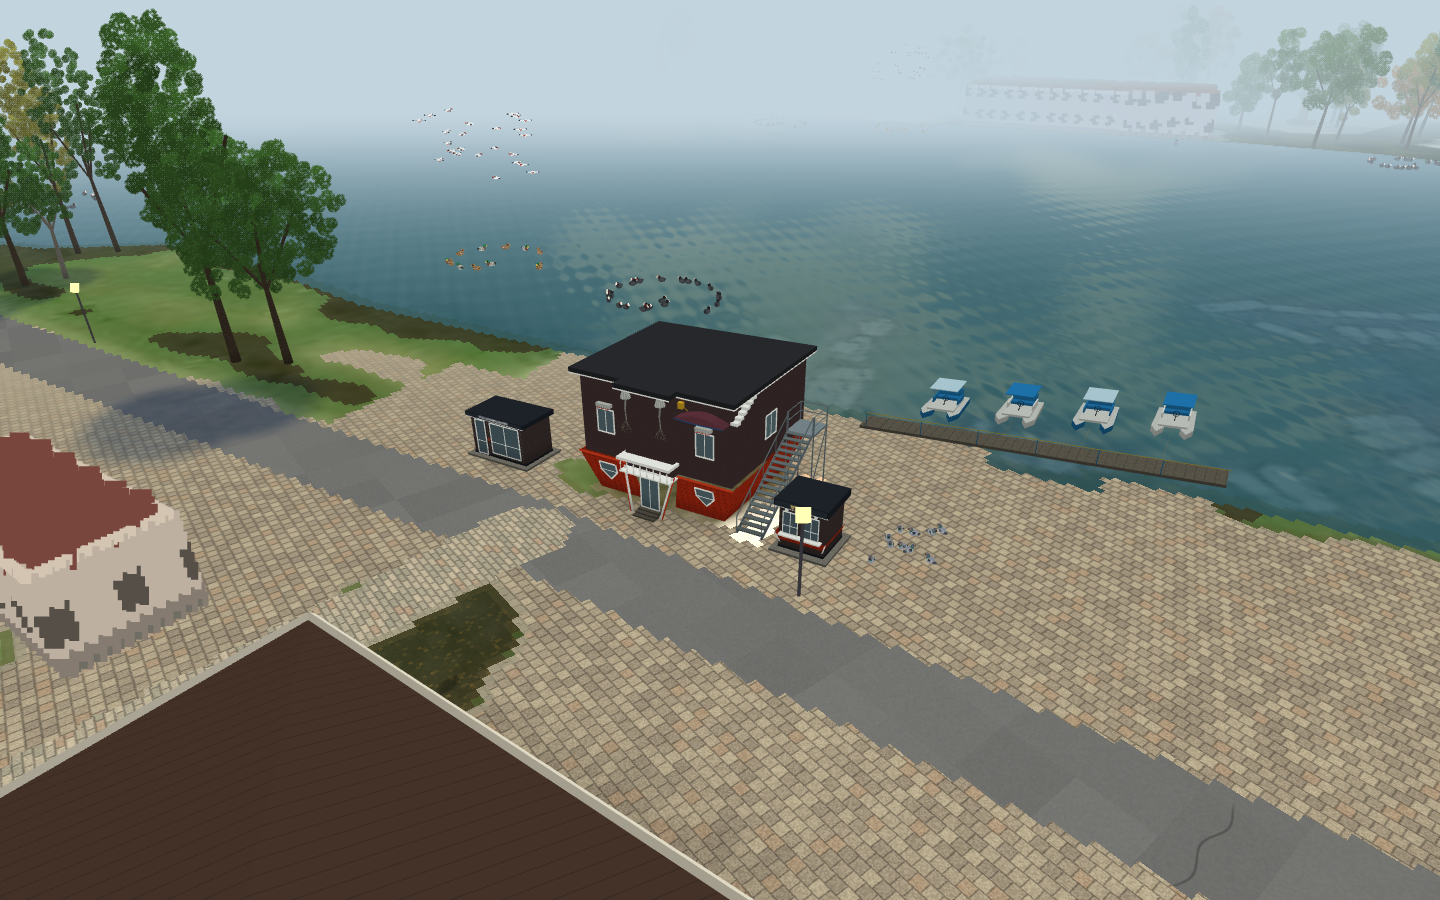
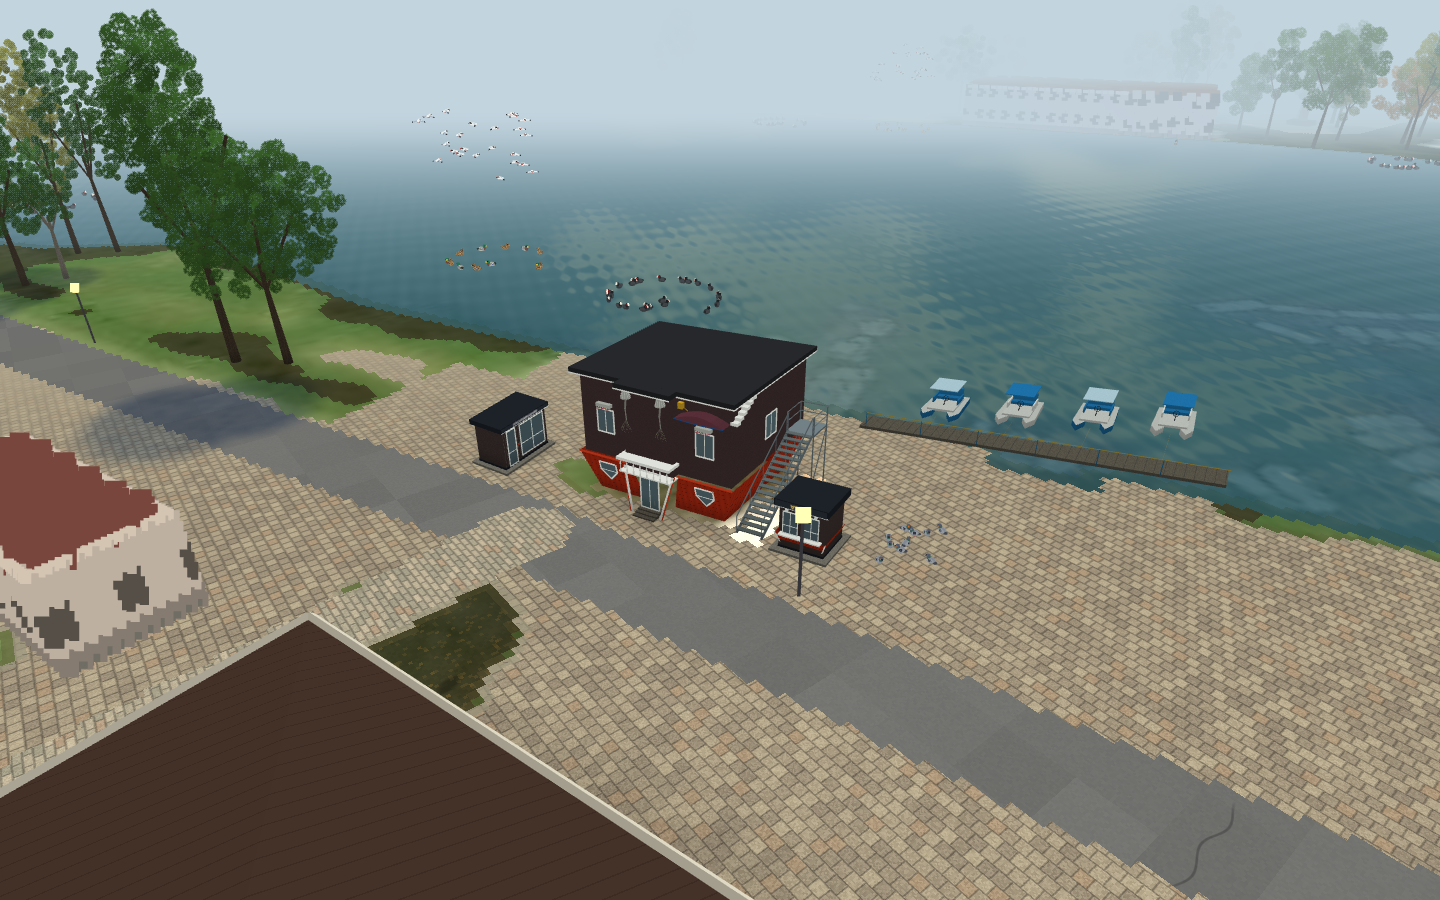
Rotate police post toward upside-down house

diff --git a/park-house-surroundings.js b/park-house-surroundings.js
@@ -6,7 +6,11 @@ const C={wood:[.28,.23,.22],dark:[.12,.14,.17],white:[.89,.91,.88],glass:[.17,.2
 const sites={policePost:{x:-10,d:-1.2,w:3.5,depth:2.25,h:2.65},shoreTicket:{x:7.8,d:-.65,w:2.2,depth:1.85,h:2.75}};
 const boats=[{x:8.5,d:-16.2},{x:12.6,d:-16.8},{x:16.7,d:-17.4},{x:20.8,d:-18}];
 function rect(f,x,d,w,depth){return [[x-w/2,d-depth/2],[x+w/2,d-depth/2],[x+w/2,d+depth/2],[x-w/2,d+depth/2]].map(p=>{const q=f.at(p[0],0,p[1]);return [q[0],q[2]];});}
-function footprint(e){const s=sites[e.kind];return rect(House.frame(e.house),s.x,s.d,s.w,s.depth);}
+function orientCabin(e,p){
+ // Quarter-turn toward the house, around the police cabin's existing centre.
+ return e.kind==='policePost'?[e.cx+p[2]-e.cz,p[1],e.cz-p[0]+e.cx]:p;
+}
+function footprint(e){const s=sites[e.kind];return rect(House.frame(e.house),s.x,s.d,s.w,s.depth).map(([x,z])=>{const p=orientCabin(e,[x,0,z]);return [p[0],p[2]];});}
 function layout(house,kind){const s=sites[kind],p=House.frame(house).at(s.x,0,s.d);return {cx:p[0],cz:p[2],house};}
 function tools(g,house){
  const at=House.frame(house).at;
@@ -33,7 +37,7 @@ function tools(g,house){
  return {at,quad,beam,box,window,sign};
 }
 function cabin(g,e){
- const s=sites[e.kind],{box,quad,beam,window,sign}=tools(g,e.house),x=s.x,d=s.d,front=d+s.depth/2,police=e.kind==='policePost';
+ const start=g.data.length,s=sites[e.kind],{box,quad,beam,window,sign}=tools(g,e.house),x=s.x,d=s.d,front=d+s.depth/2,police=e.kind==='policePost';
  box(x,.015,d,s.w+.6,.12,s.depth+.7,C.concrete,1);
  box(x,.15,d,s.w,2.23,s.depth,C.wood,police?1:12);
  box(x,.13,d,s.w+.04,.12,s.depth+.04,C.dark,2);
@@ -56,6 +60,10 @@ function cabin(g,e){
   quad([x-s.w/2-.14,.98,front+.14],[x+s.w/2+.14,.98,front+.14],[x+s.w/2-.16,.15,front-.12],[x-s.w/2+.16,.15,front-.12],C.red,11);
   for(const side of [-1,1])beam([x+side*(s.w/2+.14),.98,front+.16],[x+side*(s.w/2-.16),.15,front-.10],.034,C.white,7);
   for(const u of [-.7,.7])box(x+u,2.22,front+.10,.12,.12,.12,C.white);
+ }
+ if(police)for(let i=start;i<g.data.length;i+=10){
+  const p=orientCabin(e,g.data.slice(i,i+3)),nx=g.data[i+3],nz=g.data[i+5];
+  g.data[i]=p[0];g.data[i+2]=p[2];g.data[i+3]=nz;g.data[i+5]=-nx;
  }
 }
 function stairs(g,e){

diff --git a/tests/house-surroundings.test.js b/tests/house-surroundings.test.js
@@ -42,3 +42,18 @@ test('the actual delivered mesh has a full steel flight and elevated landing on 
  for(let i=0;i<g.data.length;i+=10){const x=g.data[i],y=g.data[i+1],z=g.data[i+2],dx=x-f.center[0],dz=z-f.center[1];if(dx*f.right[0]+dz*f.right[1]>4.45&&y<4.5)stairs.push(y);}
  assert(stairs.length>400);assert(Math.min(...stairs)<.16&&Math.max(...stairs)>4.3);
 });
+
+test('the police facade and collision footprint turn exactly 90 degrees toward the house',()=>{
+ const e=all.find(e=>e.kind==='policePost'),s=Shore.sites.policePost,p=Shore.footprint(e);
+ const original=[[-s.w/2,-s.depth/2],[s.w/2,-s.depth/2],[s.w/2,s.depth/2],[-s.w/2,s.depth/2]].map(([x,d])=>f.at(s.x+x,0,s.d+d));
+ for(let i=0;i<4;i++){
+  const a=[original[i][0]-e.cx,original[i][2]-e.cz],b=[p[i][0]-e.cx,p[i][1]-e.cz];
+  assert(Math.abs(a[0]*b[0]+a[1]*b[1])<1e-8);
+  assert(Math.abs(Math.hypot(...a)-Math.hypot(...b))<1e-8);
+  assert(a[0]*b[1]-a[1]*b[0]<0,'the facade faces along the path toward the house');
+ }
+ const mesh=Meshes.build(e),normals=[];
+ for(let i=0;i<mesh.data.length;i+=10)if(mesh.data[i+9]===13)normals.push([mesh.data[i+3],mesh.data[i+5]]);
+ assert.equal(normals.length,6);
+ assert(normals.every(([x,z])=>x*f.right[0]+z*f.right[1]>.99),'the sign faces along the house frontage toward the house');
+});

diff --git a/park.html b/park.html
@@ -154,13 +154,13 @@
 <script src="park-ticket-office.js?v=20261022-ticket1"></script>
 <script src="park-transylvania.js?v=20261022-transylvania1"></script>
 <script src="park-upside-down-house.js?v=20261022-shore1"></script>
-<script src="park-house-surroundings.js?v=20261022-shore1"></script>
+<script src="park-house-surroundings.js?v=20261022-shore2"></script>
 <script src="park-meshes.js?v=20261022-shore1"></script>
 <script src="park-atmosphere.js?v=20261022-natural1"></script>
 <script src="park-performance.js"></script>
 <script src="park-streaming.js"></script>
 <script src="small-wildlife.js?v=20261021-small-animals"></script>
 <script src="jay-voice.js?v=20261021-sonogram"></script>
-<script src="park.js?v=20261022-shore1"></script>
+<script src="park.js?v=20261022-shore2"></script>
 </body>
 </html>

diff --git a/park.js b/park.js
@@ -2348,7 +2348,7 @@
       loadImage('park/ground.png?v=20261020-approach2'),
       loadImage('park/albedo.jpg'),
       fetch('park/scans.json').then(function (r) { if (!r.ok) throw new Error('scans.json ' + r.status); return r.json(); }),
-      fetch('park/stream-manifest.json?v=20261022-shore1').then(function(r) {if(!r.ok) throw new Error('stream manifest '+r.status);return r.json();}),
+      fetch('park/stream-manifest.json?v=20261022-shore2').then(function(r) {if(!r.ok) throw new Error('stream manifest '+r.status);return r.json();}),
     ]);
     park = res[0];
     var meshEntries=ParkMeshes.entries(park);

diff --git a/tests/house_surroundings_browser.py b/tests/house_surroundings_browser.py
@@ -16,7 +16,7 @@ report={};errors=[]
 poses={
     'front':{'x':-42,'z':-372,'y':1.7,'heading':-.396,'pitch':.12},
     'right':{'x':-29,'z':-384,'y':1.7,'heading':-.99,'pitch':.09},
-    'police':{'x':-54,'z':-372,'y':1.7,'heading':-.29,'pitch':.015},
+    'police':{'x':-50.5,'z':-379.2,'y':1.7,'heading':-1.15,'pitch':.035},
     'overview':{'x':-17,'z':-365,'y':23,'heading':-.90,'pitch':-.50},
 }
 
@@ -79,6 +79,13 @@ with sync_playwright() as p:
             ('unchanged_hall',-28,-362,True)]
     for name,x,z,blocked in probes:
         page.evaluate('p=>{__car.x=p.x;__car.z=p.z;__car.heading=0;__car.v=0;__car.steer=0;}',{'x':x,'z':z})
+        page.keyboard.down('w');page.wait_for_timeout(700);page.keyboard.up('w')
+        moved=math.dist([x,z],page.evaluate('[__car.x,__car.z]'))
+        report['physics'][name]={'metres':moved,'category':page.evaluate('__stats.car.cat')}
+        assert moved<.01 if blocked else moved>.1,(name,moved)
+    for name,x,z,blocked in [('police_freed_corner',-55.1727,-382.7566,False),
+                             ('police_rotated_corner',-57.4192,-383.6109,True)]:
+        page.evaluate('p=>{__car.x=p.x;__car.z=p.z;__car.heading=2.73;__car.v=0;__car.steer=0;}',{'x':x,'z':z})
         page.keyboard.down('w');page.wait_for_timeout(700);page.keyboard.up('w')
         moved=math.dist([x,z],page.evaluate('[__car.x,__car.z]'))
         report['physics'][name]={'metres':moved,'category':page.evaluate('__stats.car.cat')}

diff --git a/docs/references/README.md b/docs/references/README.md
@@ -5,6 +5,8 @@
 По дополнительным панорамам Максима от 22.10.2026 большой левый павильон
 №5 заменён постом полиции примерно 3,5 × 2,25 м: тёмная вертикальная
 облицовка, узкая дверь слева, широкое окно справа и вывеска «ПОЛИЦИЯ».
+По поправке Максима пост повёрнут на 90° вокруг прежнего центра, фасадом
+в сторону дома вдоль дорожки; вместе повёрнута маска столкновений.
 Большое здание №6 справа убрано; на его месте открыта площадка у воды.
 Киоск №122 перенесён ближе к дому и оформлен как касса: коричневый сайдинг,
 белые окна, красные нижние скаты и перевёрнутая жёлтая надпись «КАССА».
